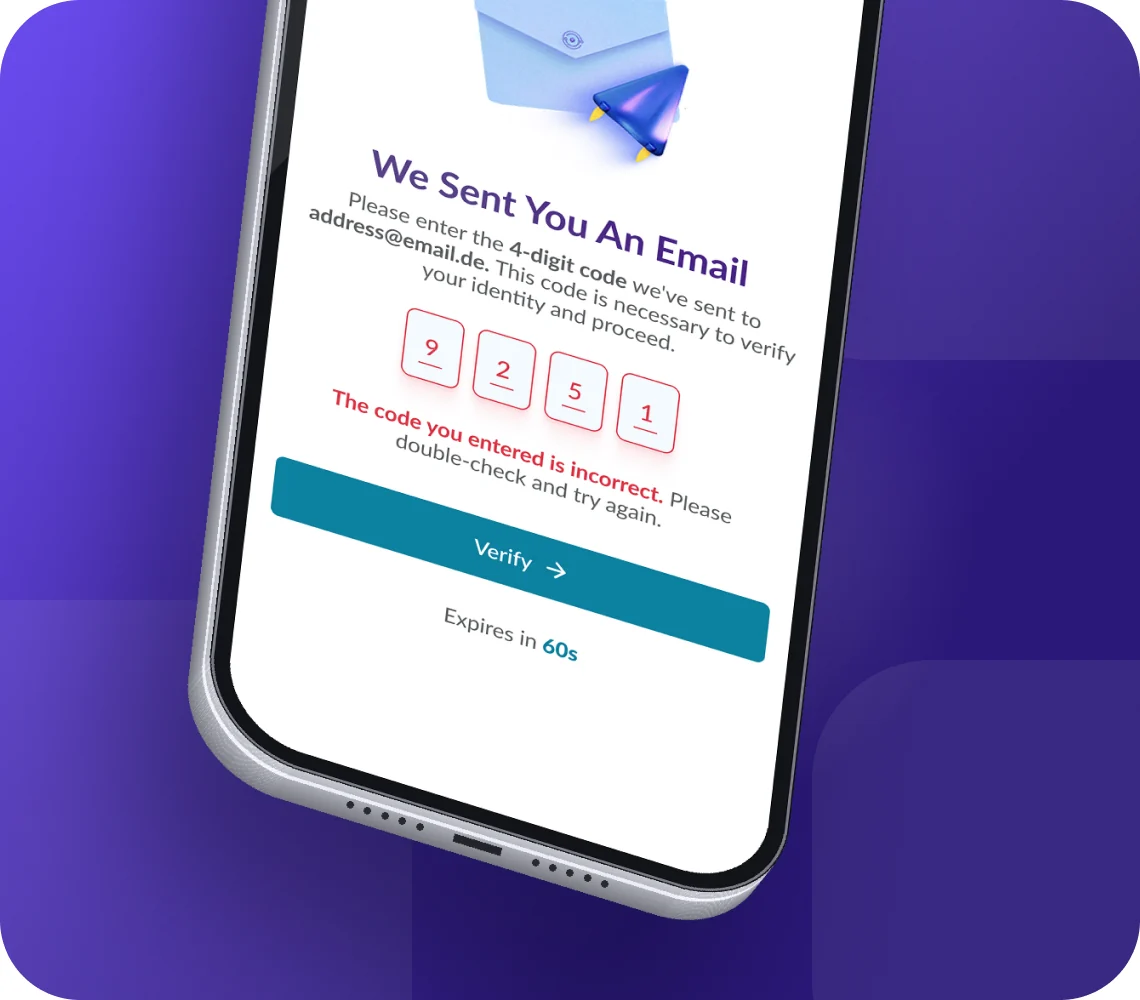
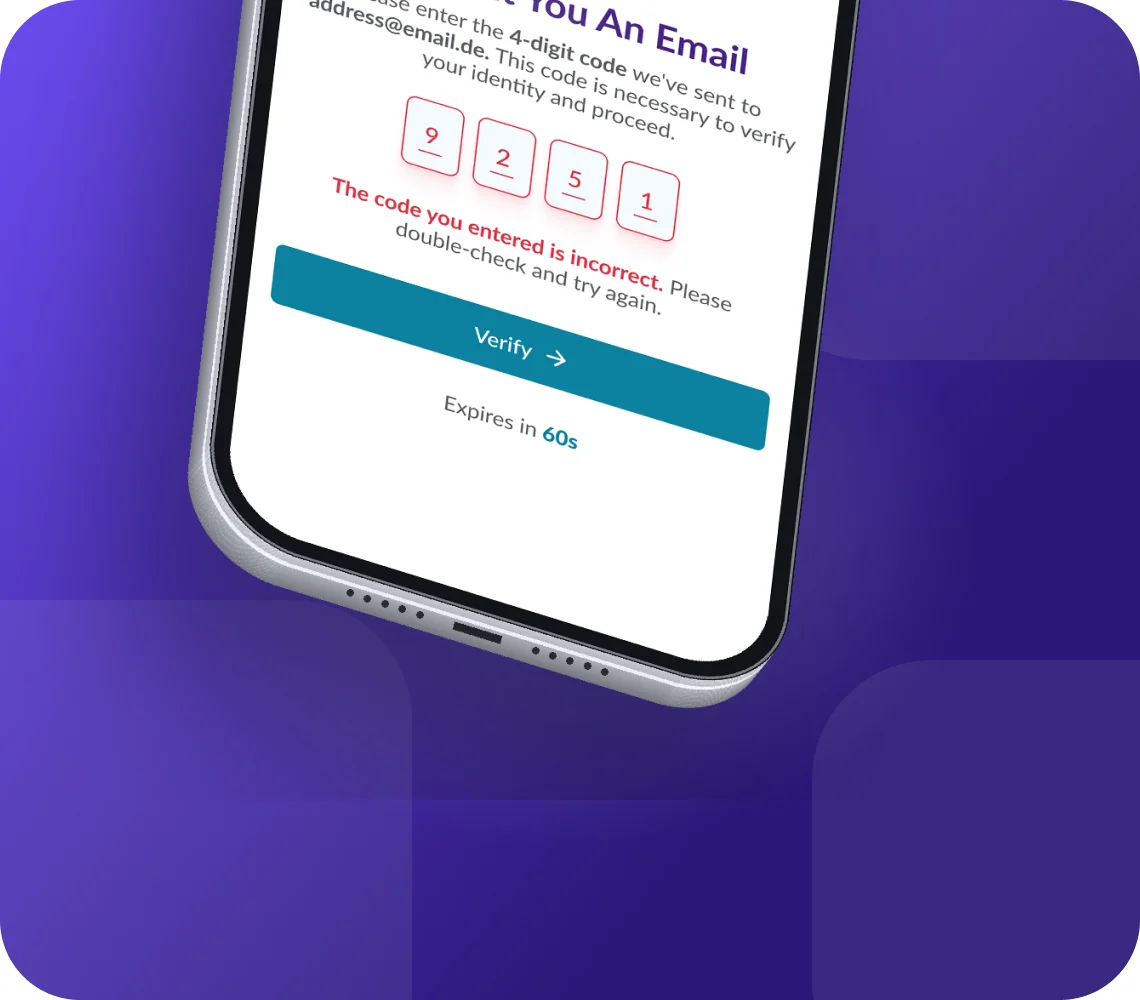
Login case: raise 3/4 phone in key-changes card
Claude-Session: https://claude.ai/code/session_011pq2ADq6rPTZrVGSK3qx6v

diff --git a/cases/login.html b/cases/login.html
@@ -93,7 +93,7 @@
         </div>
         <div class="lg-duo">
           <img src="../assets/img/login/vis-chips.webp" width="1240" height="1000" alt="Три способа входа: Google, email и пароль" loading="lazy" data-rv>
-          <img src="../assets/img/login/vis-phone.webp" width="1140" height="1000" alt="Телефон с экраном ввода кода и подсказкой об ошибке" loading="lazy" data-rv>
+          <img src="../assets/img/login/vis-phone.webp?v=2" width="1140" height="1000" alt="Телефон с экраном ввода кода и подсказкой об ошибке" loading="lazy" data-rv>
         </div>
       </div>
     </section>
